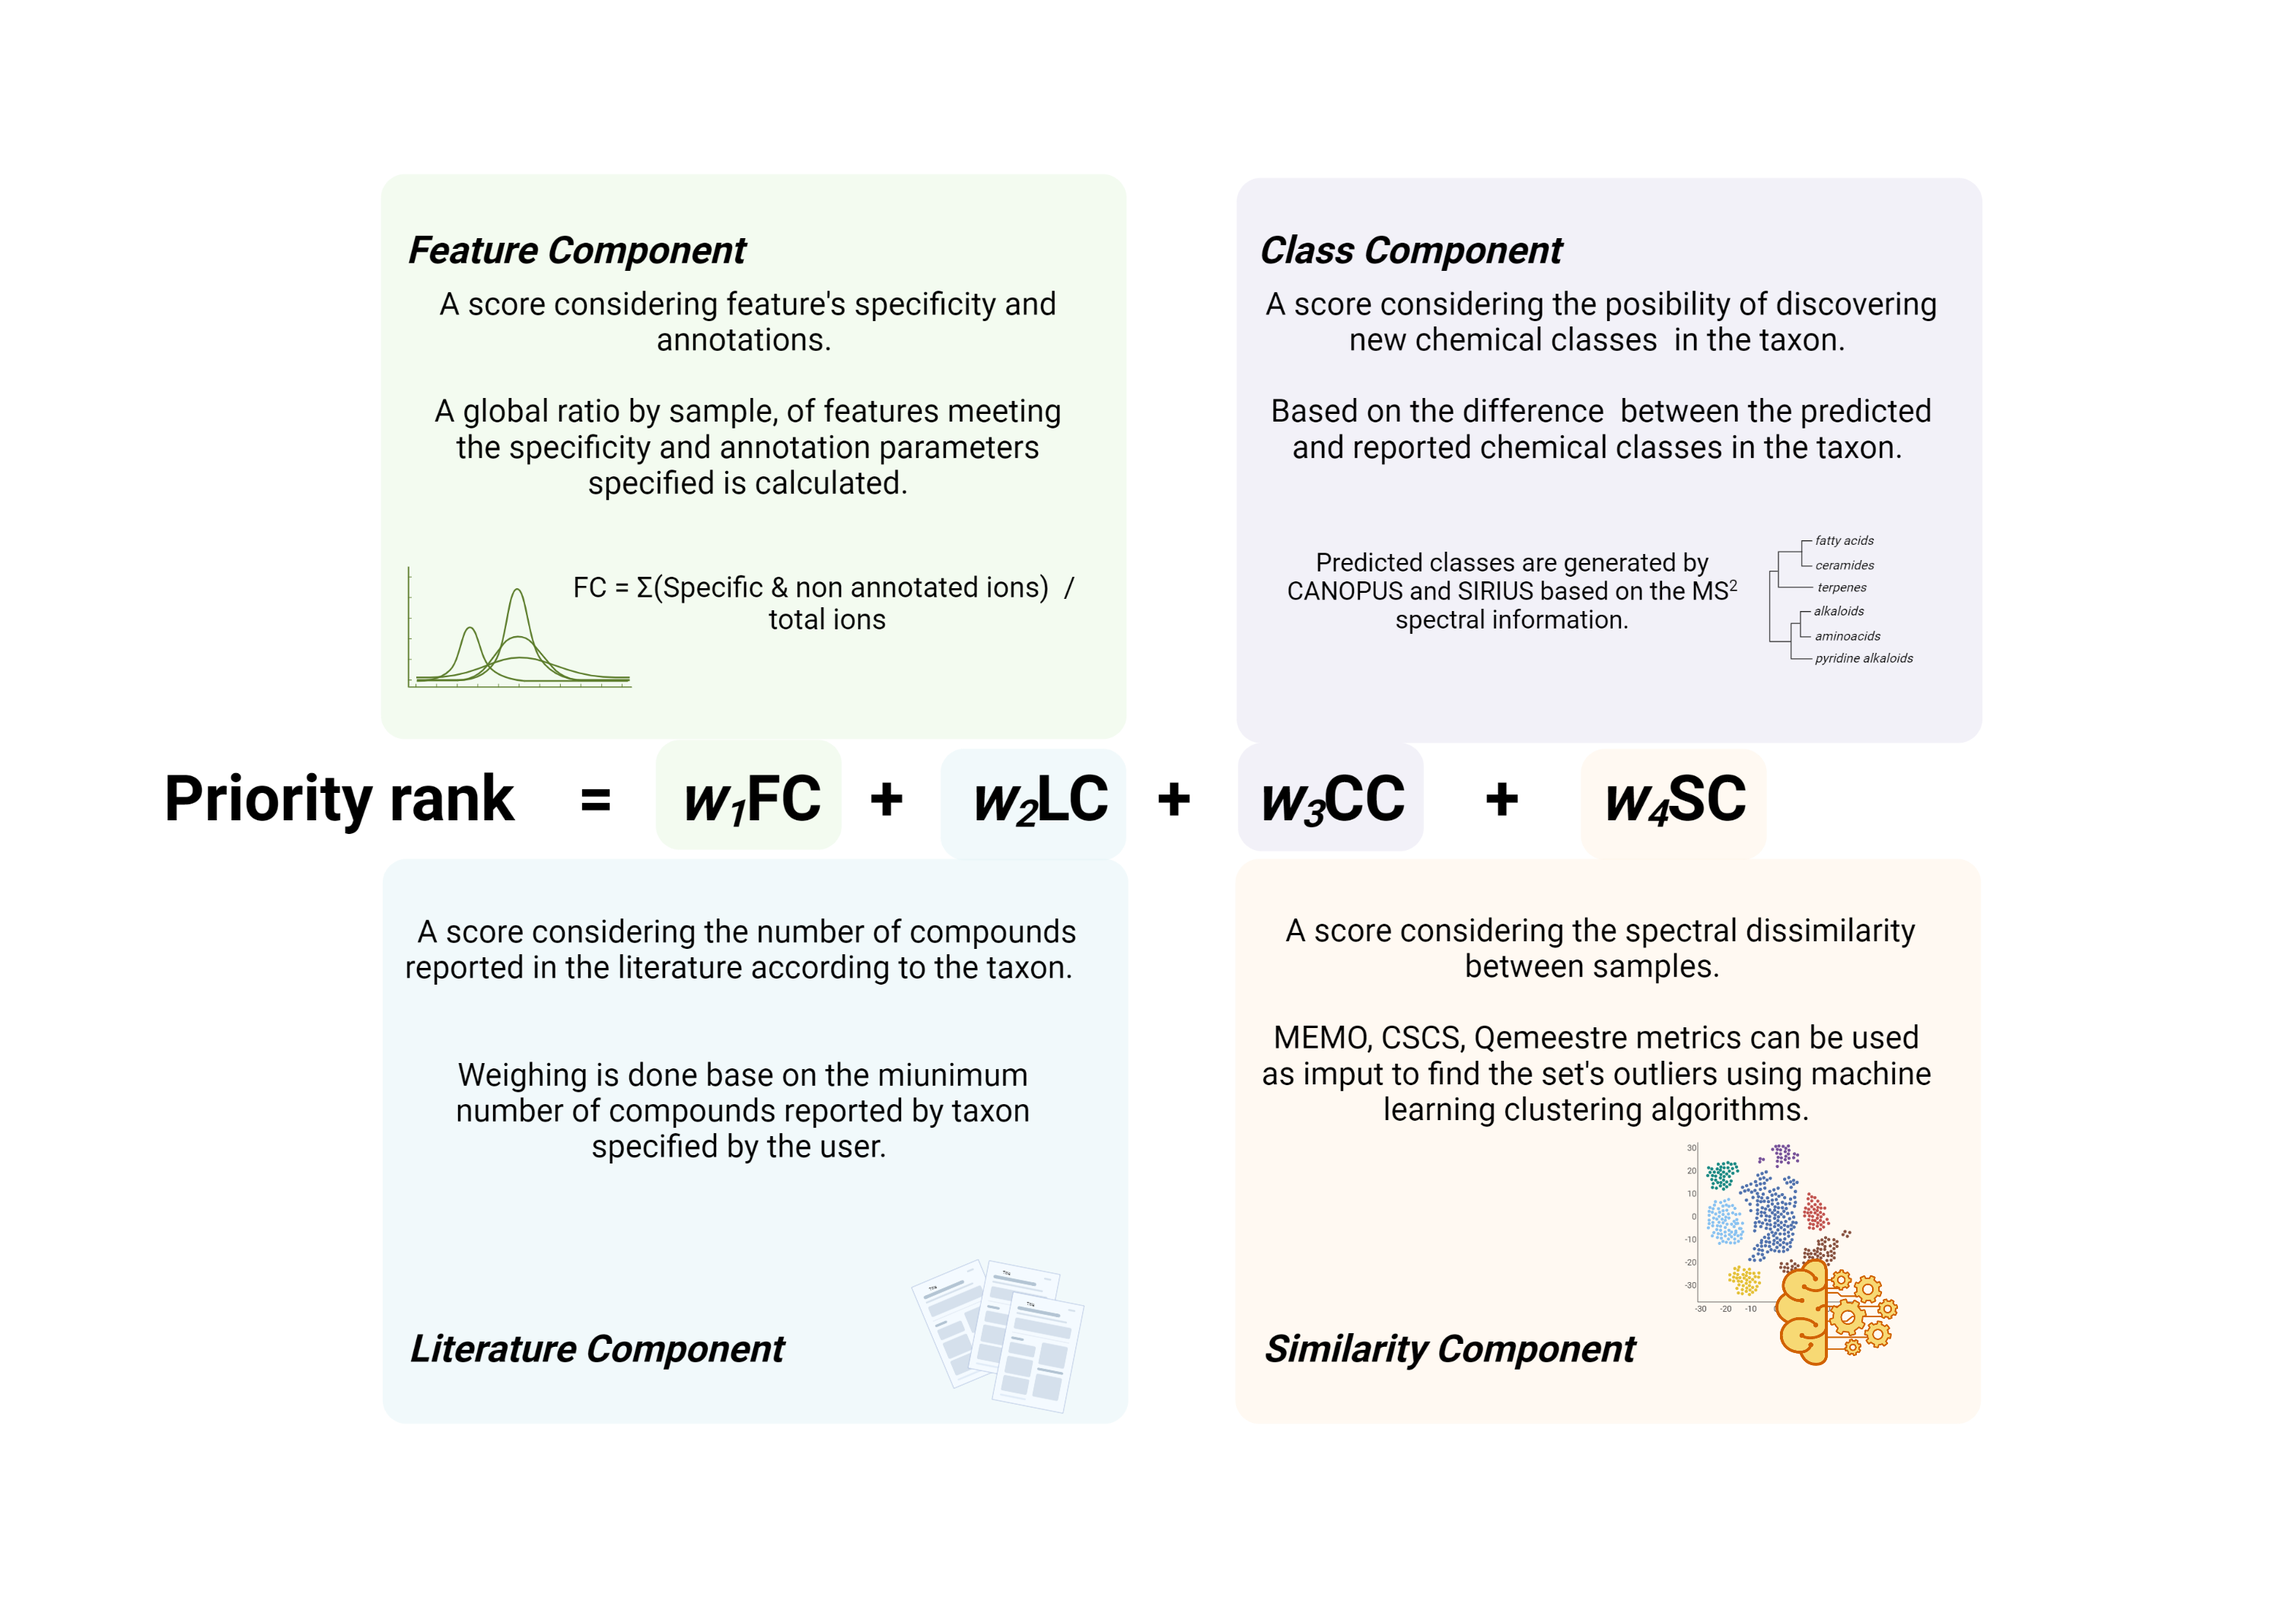
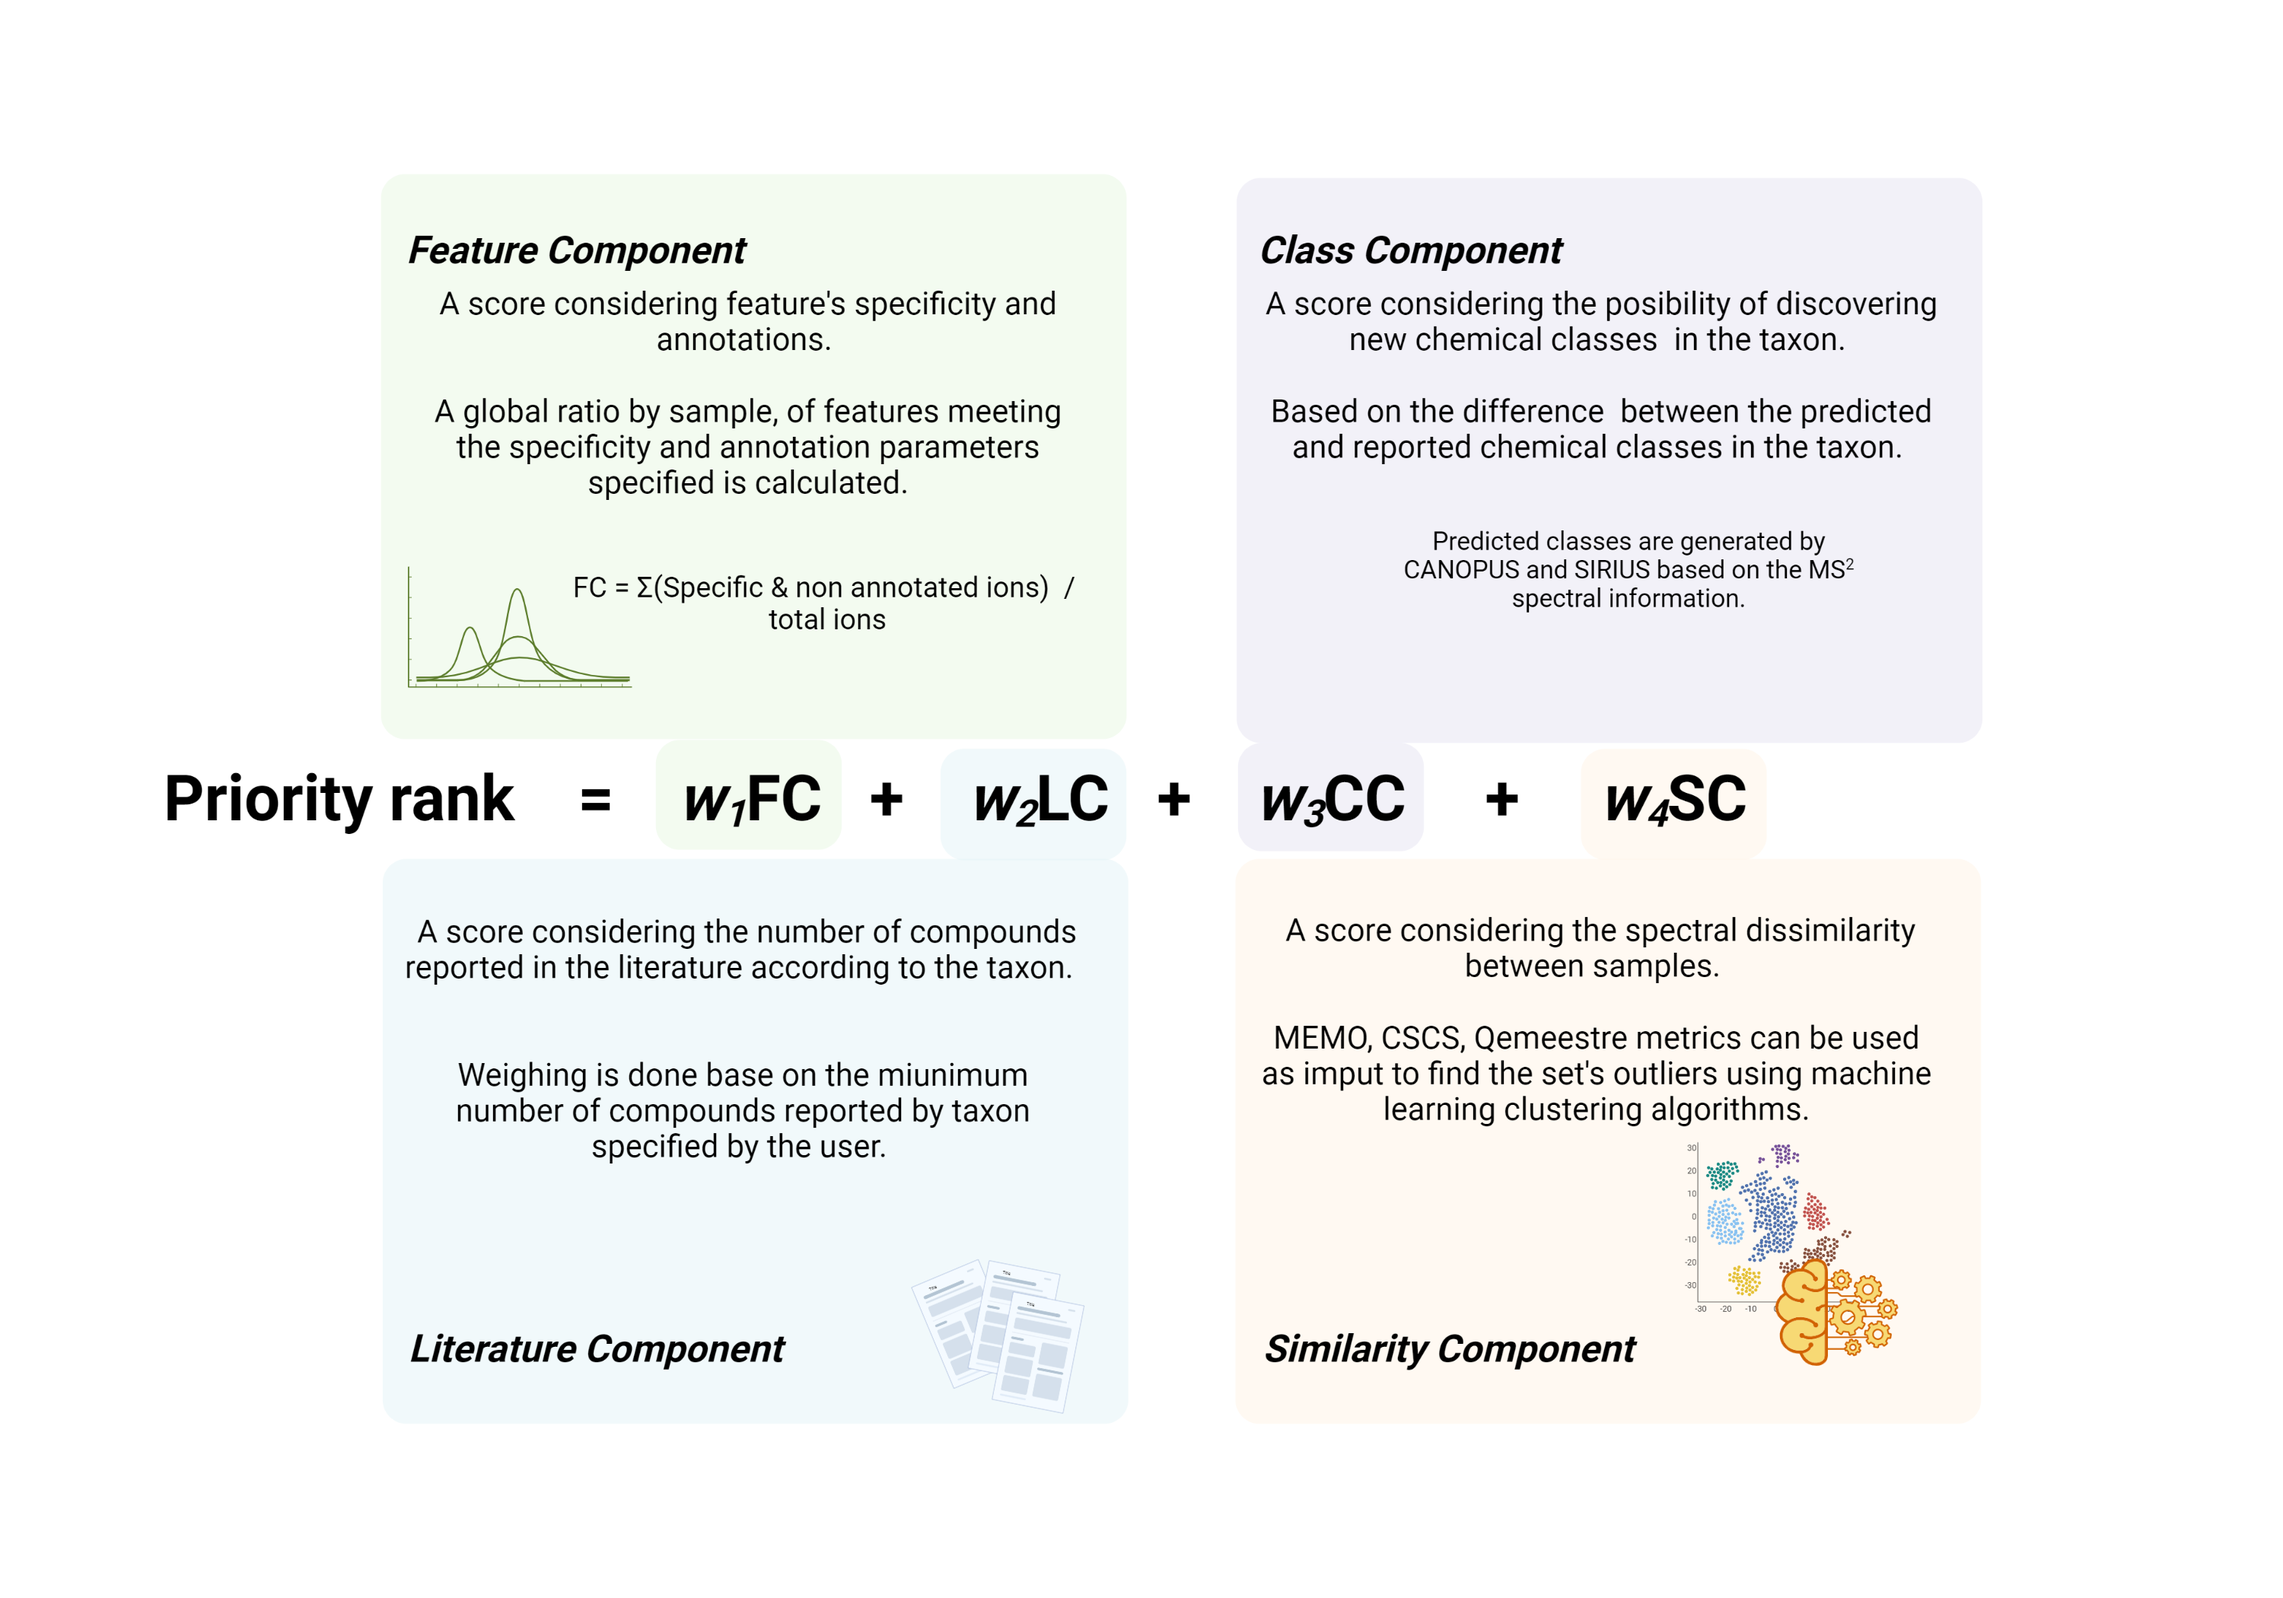
update docs

Changed region(s): [[0.558, 0.3405, 0.837, 0.4024], [0.806, 0.8048, 0.837, 0.8357]]

diff --git a/docs/index.md b/docs/index.md
@@ -7,16 +7,17 @@ layout: default
 
 ## Description 
 
-This is a workflow to explore the potential of a set of samples to contain not previously reported compounds. It is based on the results from data treatment usign MZmine, spectral organization through Molecular Networking, in-silico dereplication and prediction. 
+This is a workflow to explore the potential of a set of samples to contain not previously reported compounds. It is based on the results from the data treatment usign MZmine, spectral organization through Molecular Networking, in-silico dereplication and prediction. 
+
 It is composed of 4 independend components: 
 
-The **Feature Component (FC)** is a ratio that considers compounds with a specificity higher than, for instance, 90% per sample (specified by the user), and without putative annotation. Results: one column with the FC ratio and one column with the sample specificity (ratio of peaks higher than the specificied % with or without annotations).
+The **Feature Component (FC)** is a percentage indicating the proportion of specific non annotated features by sample. A user-defined `minimum specificity` value is used to designate the minimum percentage at which a feature is considered specific, by default the value is set to 0.9 (90%). Additionally, a column wiht the Feature specificity (not considering the annotations) is calculated. This allows a direct visualization of the proportion of specific features that were annotated.
 
 The **Literature Component (LC)** is a score based on the number of compounds reported in the literature for the taxon. The output includes one column with the LC score and at least two additional columns of metadata containing the number of reported compounds at the species and genus levels.
 
 The **Similarity Component (SC)** is a score based on the spectral similarity of the sample within the set. Multiple outlier detection machine learning algorithms are implemented to spot the dissimilar samples. A weight of ‘1’ is given to the sample considered anomalies in at least one detection method.
 
-The **Class Component (CC)** is a score based on the presence of possible new chemical classes in the taxon, not previously reported before. The CC will be considered an integer ‘1’ if there are new chemical classes at the species level, and an additional ‘1’ if those new chemical classes are not present in the genus either.
+The **Class Component (CC)** is a score based on the presence of possible new chemical classes in the taxon, not previously reported before. The CC will be considered an integer ‘1’ if there are new chemical classes at the species level. Both, not previously reported chemical classes in the species and in the genus are displayed next to the CC.
 
 The combined score (adition of the four components) can be modulated acording to the user preference. The ouput consist of .tsv file with all the information generared along the final rank of the samples.
 
